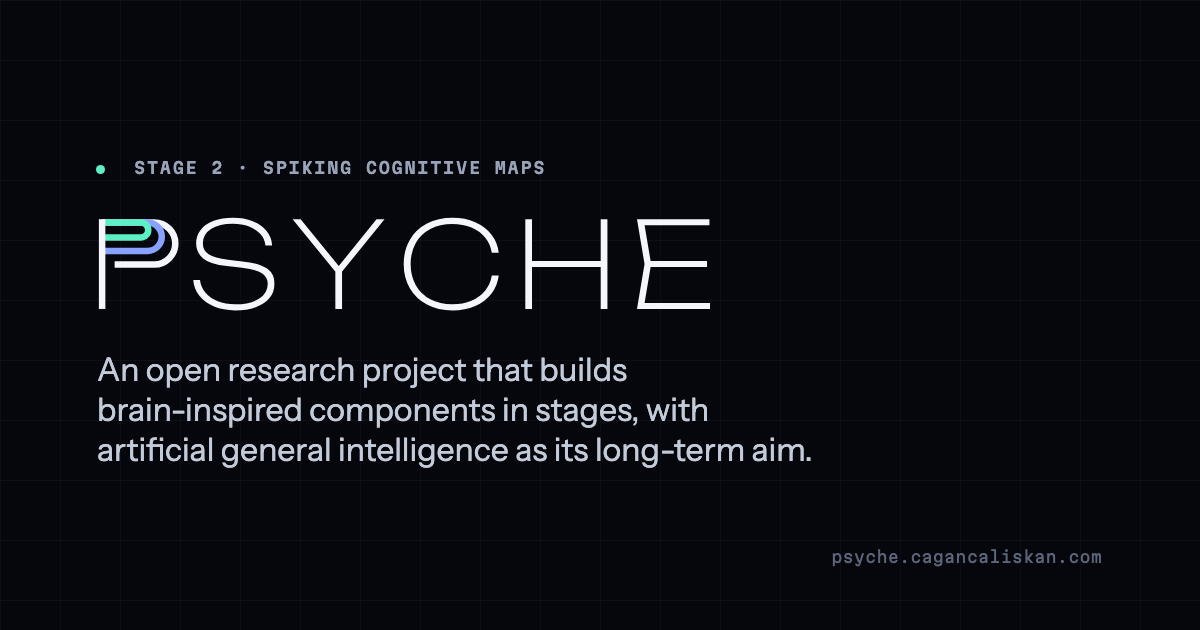
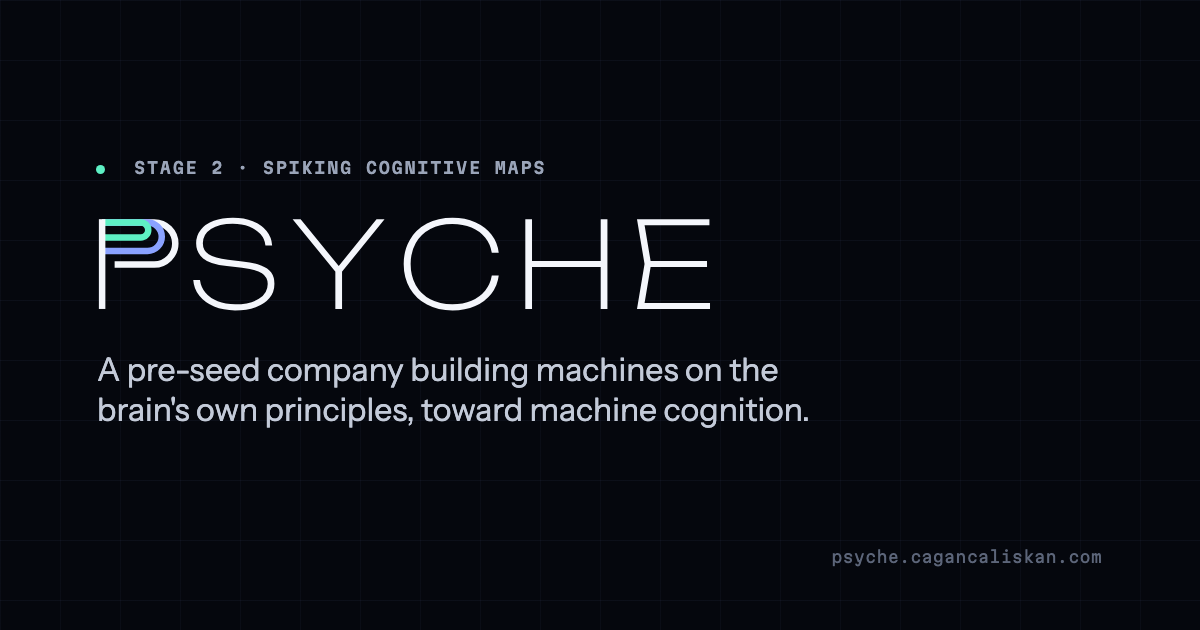
docs(program): D-037, the company's voice on the front pages and measured claims
Record the decision and bring the rules and descriptions in line with it.

- DECISIONS.md: D-037. Psyche is a pre-seed company whose research is open
  here. The front pages state aims in the company's voice. A claim backed by
  a measurement is allowed, stated with what was measured. 'Never called a
  mind' becomes 'not until shown, with evidence'. The AGI rule of D-033 is
  unchanged.
- CONTRIBUTING.md: rule 1, its cognitive-map paragraph and the tone rule
  follow D-037; the description of Psyche uses the new sentence.
- The defining sentence changes in README.md, CITATION.cff, MOC.md,
  SECURITY.md, the site description and structured data, the web manifest,
  the social card and the documents that defined Psyche in the old words.
- docs/research/claims-and-scope.md and docs/faq.md restate the rule.
- tools/ledger.json: 'measured energy' and 'energy was measured' leave the
  research term list. Every other term and every check stay.

Changed region(s): [[0.0617, 0.573, 0.6783, 0.754]]

diff --git a/website/src/lib/seo.test.ts b/website/src/lib/seo.test.ts
@@ -104,7 +104,7 @@ test('the landing JSON-LD parses and describes the site and the project', () => 
 
 test('the JSON-LD names the aim as an aim and claims nothing about a component', () => {
   const text = JSON.stringify(projectJsonLd());
-  assert.match(text, /as its long-term aim/);
+  assert.match(text, /toward machine cognition/);
   assert.doesNotMatch(text, /\b(is|achieves|reaches)\s+(an\s+)?(AGI|artificial general intelligence)/i);
   assert.doesNotMatch(text, /conscious|sentient|\bmind\b|proven|\boriginal\b|\bfirst\b/i);
   const keywords = (projectJsonLd()['@graph'] as { keywords?: string[] }[])[1].keywords ?? [];
@@ -125,8 +125,8 @@ test('the manifest, the social card and its alt text say the project sentence of
   const read = (rel: string) => JSON.parse(readFileSync(new URL(rel, import.meta.url), 'utf8'));
   const manifest = read('../../public/site.webmanifest');
   const sidecar = read('../../../brand/psyche-social.json');
-  const sentence = PROJECT_DESCRIPTION.replace(/^Psyche is an /, 'An ');
-  assert.notEqual(sentence, PROJECT_DESCRIPTION, 'PROJECT_DESCRIPTION no longer starts "Psyche is an": update this test');
+  const sentence = PROJECT_DESCRIPTION.replace(/^Psyche is a /, 'A ');
+  assert.notEqual(sentence, PROJECT_DESCRIPTION, 'PROJECT_DESCRIPTION no longer starts "Psyche is a": update this test');
   assert.equal(manifest.description, sentence);
   assert.equal(sidecar.tagline, sentence);
   assert.ok(sidecar.alt.endsWith(` ${sentence}`), 'the card alt text ends with the sentence');

diff --git a/website/src/lib/seo.ts b/website/src/lib/seo.ts
@@ -19,9 +19,9 @@ export const SITE_URL = ORIGIN + BASE;
 /** The project's public repository, where the footer's links and the structured data point. */
 export const REPO_URL = 'https://github.com/cagancaliskan/psyche';
 
-/** The project in one sentence, in the words CONTRIBUTING.md gives it: what it is, then its aim, named as an aim. */
+/** The project in one sentence, in the words CONTRIBUTING.md gives it (D-037): what it is, then where it is headed, named as an aim. */
 export const PROJECT_DESCRIPTION =
-  'Psyche is an open research project that builds brain-inspired components in stages, with artificial general intelligence as its long-term aim.';
+  "Psyche is a pre-seed company building machines on the brain's own principles, toward machine cognition.";
 
 /**
  * The 404 page, which the host serves for an address that does not exist (src/pages/404.astro). It has

diff --git a/tools/publish/test_core.py b/tools/publish/test_core.py
@@ -2816,7 +2816,8 @@ def test_og(tmp: Path) -> None:
     card = OG.card(root)
     check(card["stage"] == "Stage 2 " + MIDDOT + " Spiking cognitive maps" and card["tagline"] == OG.TAGLINE
           and card["url"] == OG.URL_TEXT and card["stage"] in card["alt"] and card["tagline"] in card["alt"]
-          and "long-term aim" in card["tagline"] and "is AGI" not in card["tagline"],
+          and "toward machine cognition" in card["tagline"] and "is AGI" not in card["tagline"]
+          and not re.search(r"\b(is|has) (a )?mind\b|conscious|sentient", card["tagline"], re.I),
           "the card text is the stage line, the tagline (the aim named as an aim) and the address; the alt text holds both")
     rc, out, err = capture(OG.main, ["--card", "--root", str(root)])
     check(rc == 0 and json.loads(out) == card, "--card prints the same text as JSON")
@@ -3926,7 +3927,7 @@ def readme_problems(text: str, versions: list, repo: str, doi: str, root: Path) 
         out.append("the on-ramp does not point to the Citation section and CITATION.cff")
     if "/discussions)" not in ramp or "](SECURITY.md)" not in ramp:
         out.append("the on-ramp does not say how to get in touch (Discussions, SECURITY.md)")
-    intro = ramp.split("Psyche is an open research project", 1)[0]
+    intro = ramp.split("Psyche is a pre-seed company", 1)[0]
     badges = re.findall(r"\[!\[([^\]]*)\]\(([^)]+)\)\]\(([^)]+)\)", intro)
     images = len(re.findall(r"!\[", intro))
     if images != 4 or len(badges) != 4:

diff --git a/tools/publish/og.py b/tools/publish/og.py
@@ -50,10 +50,9 @@ CARD_SIZE = (1200, 630)
 
 DOT = "·"
 URL_TEXT = "psyche.cagancaliskan.com"
-# The line under the wordmark: the project, in the words CONTRIBUTING.md gives, with its aim named
-# as an aim.
-TAGLINE = ("An open research project that builds brain-inspired components in stages, with "
-           "artificial general intelligence as its long-term aim.")
+# The line under the wordmark: the project, in the words CONTRIBUTING.md gives (D-037), with where
+# it is headed named as an aim.
+TAGLINE = "A pre-seed company building machines on the brain's own principles, toward machine cognition."
 
 # program line -> (stage number, the stage's name as the card shows it)
 STAGES: Dict[str, Tuple[int, str]] = {

diff --git a/docs/research/claims-and-scope.md b/docs/research/claims-and-scope.md
@@ -9,12 +9,13 @@ claims rule that the whole project follows (rule 1 in [CONTRIBUTING.md](../../CO
 
 ## The project's aim
 
-Psyche is an open research project that builds brain-inspired components in stages, with
-artificial general intelligence (AGI) as its long-term aim ([D-033](../../DECISIONS.md)). The aim
-may be named anywhere, as an aim. No public text describes Psyche, the substrate, the spiking
-model or any other component as having reached that aim, and no result of this line is presented
-as a measured step toward it. The line asks a narrow question about one measurable class of
-behaviour, and its claims stay inside that question.
+Psyche is a pre-seed company building machines on the brain's own principles, toward machine
+cognition ([D-037](../../DECISIONS.md)). Its research builds brain-inspired components in stages,
+with artificial general intelligence (AGI) as its long-term aim ([D-033](../../DECISIONS.md)). The
+aim may be named anywhere, as an aim. No public text describes Psyche, the substrate, the spiking
+model or any other component as having reached that aim, and no result of this line is presented as
+a measured step toward it. The line asks a narrow question about one measurable class of behaviour,
+and its claims stay inside that question.
 
 ## The core rule
 
@@ -34,18 +35,23 @@ same estimate for the comparators. A behaviour that was not shown is left out ra
 A cost comparison is stated in whichever direction the captured result gives, and only under the
 [energy claims](#energy-claims) rules below.
 
-## Never
+## Never, and not until shown
 
 Each line below applies to every public text about the cognitive-map line.
 
-- Never: say the model "understands" or "thinks", or use "consciousness" about it.
-- Never: call it a mind, sentient, aware, general intelligence or a validated cognitive model.
+- Not until shown, with evidence the project can show ([D-037](../../DECISIONS.md)): do not
+  say the model "understands" or "thinks", or use "consciousness" about it.
+- Not until shown, with evidence the project can show ([D-037](../../DECISIONS.md)): do not
+  call it a mind, sentient, aware or a validated cognitive model.
+- Never: call it general intelligence ([D-033](../../DECISIONS.md)).
 - Never: "the brain does it this way". Say "brain-inspired" or "biologically plausible".
 - Never: a general claim that spiking networks are more efficient than conventional networks.
 - Never: a priority claim, such as "the first" or "first model to", before release. A decided
   [Gate A](gates.md) does not lift this, whatever its outcome
   ([D-034](../../DECISIONS.md)).
-- Never: energy presented as measured. It is an analytic estimate or a lower bound.
+- Never: energy presented as measured when it was not measured. Measured energy is stated with
+  the measure and the conditions ([D-037](../../DECISIONS.md)); otherwise it is an analytic
+  estimate or a lower bound.
 - Never: a number without a captured source, meaning a results file produced by code.
 - Never: a planned result written as if it had been obtained.
 
@@ -112,15 +118,18 @@ a single no parks it.
 ## Energy claims
 
 A spiking network simulated on a GPU runs on hardware that does not exploit spikes, so its
-energy use says nothing about spiking efficiency. Any energy figure the line reports is therefore
-an estimate of what the computation would cost, never a reading of what it did cost. The
-principles:
+energy use says nothing about spiking efficiency. An energy figure from such a simulation is
+therefore an estimate of what the computation would cost, never a reading of what it did cost. A
+figure that was measured is reported as measured, with what was measured and under what
+conditions ([D-037](../../DECISIONS.md)). The principles:
 
-- **Estimates and lower bounds only, named as such.** Every energy figure is called an analytic
-  estimate or an analytic lower bound wherever it appears: in tables, in figures and in prose.
-  The limitation is stated in the text before a reviewer has to ask for it.
-- **Hardware readings are never evidence.** GPU wall-clock time and watt readings are never
-  presented as evidence of energy efficiency.
+- **Every figure named for what it is.** A measured figure is called measured and states the
+  measure and the conditions. Every other energy figure is called an analytic estimate or an
+  analytic lower bound wherever it appears: in tables, in figures and in prose. The limitation is
+  stated in the text before a reviewer has to ask for it.
+- **GPU readings are never evidence of spiking efficiency.** GPU wall-clock time and watt
+  readings measure hardware that does not exploit spikes, and are never presented as evidence of
+  the energy efficiency of spiking.
 - **No borrowed hardware figures.** The estimates are not set against energy figures reported
   for neuromorphic chips.
 - **No general efficiency claim.** Whether spiking networks save energy depends on the
@@ -150,7 +159,7 @@ the withheld method.
 | Sentences | Short and active. "X does Y (Fig. N)" rather than "we show that". |
 | Terms | One name for one thing, used the same way everywhere. A second name for the same thing is a defect. |
 | Numbers | Mean with a confidence interval. A value rather than "approximately". "Significant" only with a statistical test behind it. |
-| Restraint | "Novel" and "original", as claims about the work, only with evidence. No priority claim before release, whatever a gate decides, no marketing language, no exclamation marks. |
+| Restraint | "Novel" and "original", as claims about the work, only with evidence. No priority claim before release, whatever a gate decides, no marketing language in research documents ([D-037](../../DECISIONS.md)), no exclamation marks. |
 | Figures | Every axis labelled with its unit, a colour-blind-safe palette, and every figure cited in the text. Figures are generated from code. |
 | Citations | Primary sources, with a DOI, and the year and venue checked. A reference is used only after it has been checked against its primary source; a second-hand citation is not enough. |
 | Status words | Lowercase in the line's prose, exactly the vocabulary of `tools/research_plan.json`: planned, active and done for phases; upcoming and decided for gates; upcoming, met and missed for deadlines. |

diff --git a/DECISIONS.md b/DECISIONS.md
@@ -2129,3 +2129,88 @@ now" and an exception in "What is withheld". `docs/blog/README.md`, `docs/faq.md
 "Public summary, private detail" paragraph of `CONTRIBUTING.md` and the post that introduced the
 blog are reworded to match. No tool, check or plan file changes: a progress note passes the same
 commit gate and disclosure scan as every other post.
+
+## D-037 — The front pages speak for the company; a measured claim is always welcome
+
+**Date:** 2026-11-17 · **Decided by:** Cagan · **Lane:** architect-pm (documents,
+`tools/ledger.json` term list); builder (site metadata, social card, tool tests) · **Status:**
+decided
+
+### 1. Context
+
+The site's front pages (home, What we're building, The five experiments, About, the blog) were
+rebuilt for a company audience. Their words outran rule 1 of the project rules as written: rule 1
+said that Psyche and its parts are never called a mind, conscious, sentient or a validated
+cognitive model, that energy appears only as an analytic estimate, and the tone rule barred
+marketing language in all documents. The public description still called Psyche "an open research
+project". A rule that says "never" also blocks the day the work earns the word, and it blocks a
+claim backed by a measurement in the same way as one with nothing behind it.
+
+### 2. The decision
+
+1. Psyche is a pre-seed company. Its research is open in this repository.
+2. The slogan is "Toward machines with a mind of their own." It states where the work is headed.
+   Today, nothing we have built is described as a mind, because nothing built today has earned the
+   word. This is a statement about today, not a permanent limit: when the work earns the word,
+   with evidence we can show, we use it.
+3. The company's pages (home, What we're building, The five experiments, About, the blog) state
+   aims in plain, confident words: "we're building", "ours won't". They never say that something
+   built today has an ability or a measured property it does not have.
+4. A claim about energy or ability that is backed by a measurement is allowed everywhere, without
+   hesitation, stated with what was measured and under what conditions. A claim with no
+   measurement behind it is written as an aim.
+5. The rule against marketing language applies to research documents, records and commit
+   messages. The company's pages are written in the company's voice.
+
+The one sentence that describes Psyche wherever the repository said "open research project":
+
+> Psyche is a pre-seed company building machines on the brain's own principles, toward machine
+> cognition.
+
+What follows from it:
+
+- Rule 1's "never" for a mind, conscious, sentient and a validated cognitive model becomes "not
+  until shown, with evidence the project can show". This supersedes D-033 item 3 in that respect;
+  D-033 stays as written because this file is append-only. The AGI rule of D-033 is unchanged:
+  AGI is named freely as the aim, and no text says that Psyche or any current component is or
+  achieves it.
+- What does not change: every number still traces to a captured source; no text says that a
+  current component has an ability or a measured property it lacks; no priority claim before
+  release (D-034); "the brain does it this way" stays out; a planned result is never written as
+  obtained. No current result or measurement is presented as existing by this entry.
+- The automatic check that flags sentences such as "is a mind", "is conscious" and "is an AGI"
+  (`forbidden_claim_terms`, and the research terms other than the two named in the cost) stays
+  for now. Lifting it later is a separate, small change, and this entry names it as the intended
+  path.
+- This entry goes into the decision log only; it is not shown on the website.
+
+### 3. Options considered
+
+- Keep rule 1 as written and bring the rebuilt front pages back under it: the rules stay
+  untouched, but the pages lose the company's voice and the rule keeps blocking measured claims.
+- Reword the front pages only and leave rule 1 saying "never": the rules and the pages would
+  disagree.
+- Turn "never" into "not until shown", allow measured claims everywhere, and limit the tone rule
+  to research documents, records and commit messages: chosen. A permanent ban would
+  block the project on the day the evidence arrives, and a claim with a measurement behind it
+  should pass without hesitation.
+
+### 4. Cost
+
+`CONTRIBUTING.md` is reworded: "What this repository is" and "What Psyche is" use the sentence
+above, rule 1 and its paragraph on the cognitive-map line say "not until shown" and allow measured
+claims, and the tone rule names its scope. The defining sentence changes in `README.md`,
+`CITATION.cff`, `website/src/lib/seo.ts` (the site description and the structured data built from
+it), `website/public/site.webmanifest`, `tools/publish/og.py` and the social card drawn from it
+(`brand/psyche-social.png`, its sidecar and `website/public/og.png`), and in `docs/guide.md`,
+`docs/research/README.md`, `docs/research/claims-and-scope.md`, `docs/research/glossary.md`,
+`docs/research/origins.md`, `docs/three-walls.md`, `docs/PSYCHE.md`, `MOC.md`, `SECURITY.md` and
+the guide's description in `docs/publish.json`. `docs/faq.md` restates rule 1 in its new wording,
+and `docs/CONSCIOUSNESS-YARDSTICK.md` notes the change beside its quotation of the old one. The "Never" list and the energy rules of `docs/research/claims-and-scope.md`
+are reworded to match items 2 and 4. In `tools/ledger.json`, "measured energy" and "energy was
+measured" leave `research_forbidden_claim_terms`; every other term stays.
+`website/src/lib/seo.test.ts` and `tools/publish/test_core.py` follow the new sentence and still
+check that the aim is named as an aim and that nothing is claimed. `tools/ledger_check.py`,
+`tools/publish/check_copy.py` and `forbidden_claim_terms` are unchanged. The copy check still
+reports any energy figure on a public page; a measured figure passes with the existing
+`ledger:allow-claim` mark beside it, as every reviewed exception does.

diff --git a/CONTRIBUTING.md b/CONTRIBUTING.md
@@ -133,9 +133,10 @@ again before the site deploys from the main branch.
 
 ## What this repository is (D-031, D-033)
 
-Psyche is one open research project that builds brain-inspired components in stages, with
-artificial general intelligence (AGI) as its long-term aim. Each stage is built test-first and
-kept as a citable artifact.
+Psyche is a pre-seed company building machines on the brain's own principles, toward machine
+cognition (D-037). Its research is open in this repository. The project builds brain-inspired
+components in stages, with artificial general intelligence (AGI) as its long-term aim. Each stage
+is built test-first and kept as a citable artifact.
 
 - **Stage 1, the substrate** (`src/`, `tests/`, `experiments/`, `docs/PSYCHE.md`): a
   memory-and-activation substrate, the project's foundation. **Paused** since 2026-10-23.
@@ -183,11 +184,13 @@ done (D-036). When unsure whether something is private, it is.
 
 Public text describes the project this way.
 
-Psyche is an open research project that builds brain-inspired components in stages, with AGI as
-its long-term aim. Its first stage, the substrate, is a biologically-motivated, dependency-free
-Python prototype of a **memory-and-activation substrate for a cognitive architecture**; its aim is
-stated above and is paused. Its second stage, spiking cognitive maps, is active. The current built
-artifact is a verified substrate plus an honest, well-tested exploration of higher layers.
+Psyche is a pre-seed company building machines on the brain's own principles, toward machine
+cognition. Its research is open in this repository. The project builds brain-inspired components in
+stages, with AGI as its long-term aim. Its first stage, the substrate, is a biologically-motivated,
+dependency-free Python prototype of a **memory-and-activation substrate for a cognitive
+architecture**; its aim is stated above and is paused. Its second stage, spiking cognitive maps, is
+active. The current built artifact is a verified substrate plus an honest, well-tested exploration
+of higher layers.
 
 **What is verified** is that the substrate's lower layers are *correct and deterministic*:
 verified by the full adversarial suite on every interpreter; not a formal proof. **What is not
@@ -223,18 +226,25 @@ assertion total; that is why `tools/ledger_check.py` exists and why it runs in C
 
 These are the disciplines the project has already paid for in bugs.
 
-1. **Never overclaim.** Psyche, or any of its components, is never called "a mind,"
-   "conscious," "sentient," or "a validated cognitive model," and no text says that it is or
-   achieves AGI — not in code, comments, docstrings, docs, or commit messages. AGI may be named
-   as the project's long-term aim (D-033). Biological *inspiration* may be described; biological
-   *fidelity* or cognitive achievement may not be asserted.
+1. **Never overclaim.** Psyche, or any of its components, is not called "a mind,"
+   "conscious," "sentient," or "a validated cognitive model" — not in code, comments,
+   docstrings, docs, or commit messages — until that is shown, with evidence the project can
+   show (D-037). No text says that it is or achieves AGI; AGI may be named as the project's
+   long-term aim (D-033). A claim about energy or ability that is backed by a measurement is
+   allowed, stated with what was measured and under what conditions; a claim with no measurement
+   behind it is written as an aim (D-037). Biological *inspiration* may be described; biological
+   *fidelity* may not be asserted, and cognitive achievement may not be asserted without a
+   measurement behind it.
 
-   **The cognitive-map line adds its own terms.** The spiking model is never described in
-   terms of consciousness, understanding or thinking; results describe behaviour and internal
-   structure. It is "brain-inspired" or, where it can be argued, "biologically plausible",
-   never "the brain does it this way". Energy appears only as an analytic estimate or lower
-   bound, reported with its sensitivity analysis: never GPU wall-clock time or watts as
-   evidence, and never a general claim that spiking networks are more efficient. No priority claim
+   **The cognitive-map line adds its own terms.** The spiking model is not described in
+   terms of consciousness, understanding or thinking until that is shown, with evidence the
+   project can show (D-037); results describe behaviour and internal structure. It is
+   "brain-inspired" or, where it can be argued, "biologically plausible", never "the brain does
+   it this way". Energy is presented as measured only when it was measured, stated with the
+   measure and the conditions; otherwise it appears as an analytic estimate or lower bound,
+   reported with its sensitivity analysis. GPU wall-clock time or watts are never evidence of
+   spiking efficiency, and there is never a general claim that spiking networks are more
+   efficient. No priority claim
    ("first", "the first to") before release: a decided gate lifts none of the claim terms
    (D-034). Every number traces to a captured results file.
 
@@ -432,5 +442,7 @@ first-class result.
 ## Tone
 
 Honest, precise, willing to report what broke. A result that says "this passes, and here is
-exactly where it would not" is worth more than a confident one. No marketing language and no
-exclamation marks in documents, commit messages or notes.
+exactly where it would not" is worth more than a confident one. No marketing language in research
+documents, records, commit messages or notes; the company's pages (home, What we're building, The
+five experiments, About, the blog) are written in the company's voice (D-037). No exclamation
+marks in documents, commit messages or notes.

diff --git a/README.md b/README.md
@@ -10,13 +10,14 @@
 [![DOI](https://zenodo.org/badge/DOI/10.5281/zenodo.20474613.svg)](https://doi.org/10.5281/zenodo.20474613)
 [![License: MIT](https://img.shields.io/badge/license-MIT-blue.svg)](LICENSE)
 
-Psyche is an open research project that builds brain-inspired components in stages, each built
-test-first and kept as a citable artifact, with artificial general intelligence (AGI) as its
-long-term aim. AGI is named as an aim only: nothing built so far is general intelligence, and
-these pages make no such claim. Stage 1, a dependency-free memory-and-activation substrate, is the
-foundation, and its report is archived with a DOI. Stage 2, spiking cognitive maps, is a test of
-whether a spiking network that learns only through local synaptic plasticity shows the behaviours
-that an internal map would explain and memorised responses would not.
+Psyche is a pre-seed company building machines on the brain's own principles, toward machine
+cognition. Its research is open in this repository. The project builds brain-inspired components in
+stages, each built test-first and kept as a citable artifact, with artificial general intelligence
+(AGI) as its long-term aim. AGI is named as an aim only: nothing built so far is general
+intelligence, and these pages make no such claim. Stage 1, a dependency-free memory-and-activation
+substrate, is the foundation, and its report is archived with a DOI. Stage 2, spiking cognitive
+maps, is a test of whether a spiking network that learns only through local synaptic plasticity
+shows the behaviours that an internal map would explain and memorised responses would not.
 
 **Status.** The current phase and the next decision gate of stage 2, rendered from
 [`tools/research_plan.json`](tools/research_plan.json); the [roadmap](#roadmap) below explains the

diff --git a/docs/guide.md b/docs/guide.md
@@ -6,10 +6,11 @@ touch. It ends with [routes for four kinds of reader](#where-to-go-next).
 
 ## What Psyche is, and why
 
-Psyche is an open research project that builds brain-inspired components in stages, with
-artificial general intelligence (AGI) as its long-term aim. Each stage is built test-first and
-kept as a citable artifact, so that if the work stopped at any point, what was behind it would
-stand on its own.
+Psyche is a pre-seed company building machines on the brain's own principles, toward machine
+cognition. Its research is open. The project builds brain-inspired components in stages, with
+artificial general intelligence (AGI) as its long-term aim. Each stage is built test-first and kept
+as a citable artifact, so that if the work stopped at any point, what was behind it would stand on
+its own.
 
 AGI is named as an aim and only as an aim. Nothing built so far is general intelligence, and no
 page of this site says that it is. [Why the aim is named at all](faq.md#why-is-agi-named-as-an-aim)

diff --git a/docs/three-walls.md b/docs/three-walls.md
@@ -9,9 +9,10 @@ attempted, what stopped it, what was and was not claimed, and what it left behin
 The [substrate](PSYCHE.md) is a dependency-free memory-and-activation prototype whose lower layers
 are verified correct and deterministic. Its cycle runs end to end: activation spreads over a graph
 of weighted roads, a workspace selects one candidate, and a bounded broadcast feeds back. It makes
-no cognitive claim. Psyche itself is an open research project that builds brain-inspired
-components in stages, with artificial general intelligence (AGI) as its long-term aim, named here
-only as an aim ([Reader's guide](guide.md)).
+no cognitive claim. Psyche itself is a pre-seed company building machines on the brain's own
+principles, toward machine cognition; its research builds brain-inspired components in stages,
+with artificial general intelligence (AGI) as its long-term aim, named here only as an aim
+([Reader's guide](guide.md)).
 
 ## The three at a glance
 

diff --git a/MOC.md b/MOC.md
@@ -1,9 +1,10 @@
 # Map of content
 
 The entry point for reading this repository as an Obsidian vault. Every link is a standard
-Markdown link, so the same map also works on GitHub. Psyche is one open research project that
-builds brain-inspired components in stages, with artificial general intelligence (AGI) as its
-long-term aim, named only as an aim. Stage 1, the substrate, is the foundation and is paused;
+Markdown link, so the same map also works on GitHub. Psyche is a pre-seed company building
+machines on the brain's own principles, toward machine cognition. Its research builds
+brain-inspired components in stages, with artificial general intelligence (AGI) as its long-term
+aim, named only as an aim. Stage 1, the substrate, is the foundation and is paused;
 stage 2, spiking cognitive maps, is the active line. Both are recorded under D-031 in
 [DECISIONS.md](DECISIONS.md), and the aim under D-033.
 

diff --git a/docs/PSYCHE.md b/docs/PSYCHE.md
@@ -1,8 +1,8 @@
 # The substrate: stage 1 of Psyche
 
-> **Stage 1 of Psyche: the substrate.** This is the foundation of Psyche, an open research
-> project that builds brain-inspired components in stages with AGI as its long-term aim, and the
-> origin of the project's method. Its development has been paused since 2026-10-23 (D-031) while
+> **Stage 1 of Psyche: the substrate.** This is the foundation of Psyche, a pre-seed company
+> building machines on the brain's own principles, toward machine cognition, and the origin of
+> the project's method. Its development has been paused since 2026-10-23 (D-031) while
 > stage 2, spiking cognitive maps, is the active line; its code, suites, ledger and this record
 > stay maintained. Project overview: [README](../README.md); how the substrate led to stage 2:
 > [Origins](research/origins.md). The text below was the repository README until 2026-10-23, when
